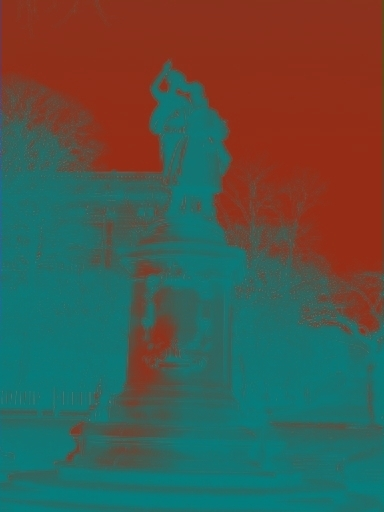
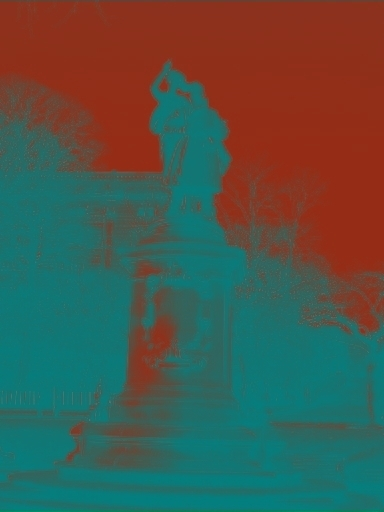
Added sharpness on the final image

Changed region(s): [[0.9688, 0.0, 1.0, 0.5312], [0.0, 0.0, 0.0312, 0.2188]]

diff --git a/ImageScrambling/src/DecryptionSteps.java b/ImageScrambling/src/DecryptionSteps.java
@@ -1,7 +1,10 @@
 import java.awt.Color;
 import java.awt.Graphics2D;
 import java.awt.image.BufferedImage;
+import java.awt.image.BufferedImageOp;
+import java.awt.image.ConvolveOp;
 import java.awt.image.DataBufferByte;
+import java.awt.image.Kernel;
 import java.io.File;
 import java.io.FileNotFoundException;
 import java.io.IOException;
@@ -44,8 +47,6 @@ public class DecryptionSteps {
 		}
 		
 		writeImage(new File("Decrypt/YCbCr.jpg"), img);
-		
-		
 	}
 
 	public static void separateImage() throws IOException{
@@ -185,8 +186,16 @@ public class DecryptionSteps {
 		}
 
 		//ImageIO.write(base,"jpg", new File("Decrypt/final.jpg"));
-
 		File outfile = new File("Decrypt/final.jpg");
+		
+		Kernel kernel = new Kernel(3, 3, new float[] {
+													  0.0f ,-0.99f,  0.0f,
+													  -0.99f , 5.0f, -0.99f,
+												       0.0f ,-0.99f,  0.0f
+												       });
+	    BufferedImageOp op = new ConvolveOp(kernel);
+	    base = op.filter(base, null);
+		
 		writeImage(outfile, base);
 
 	}
